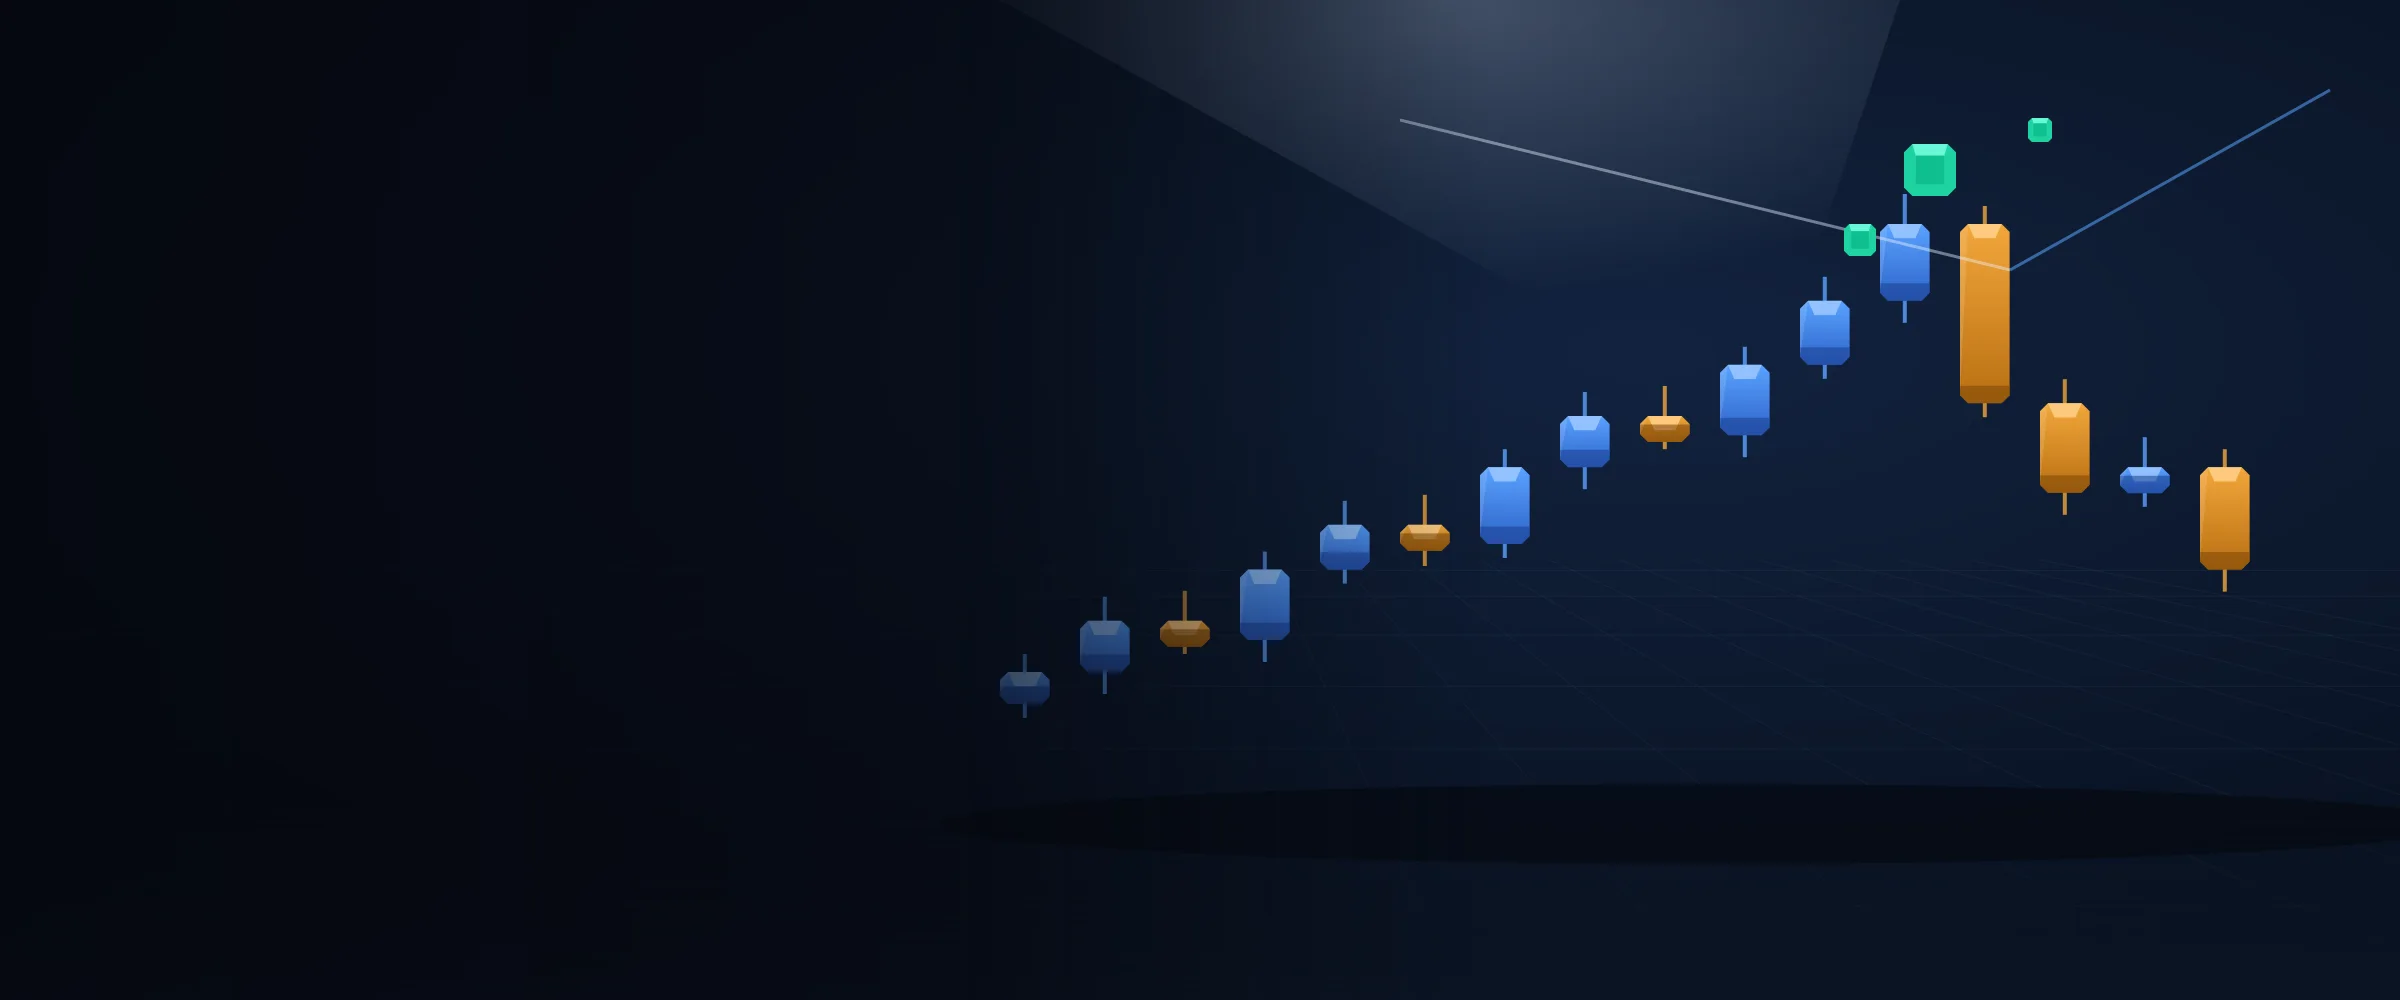
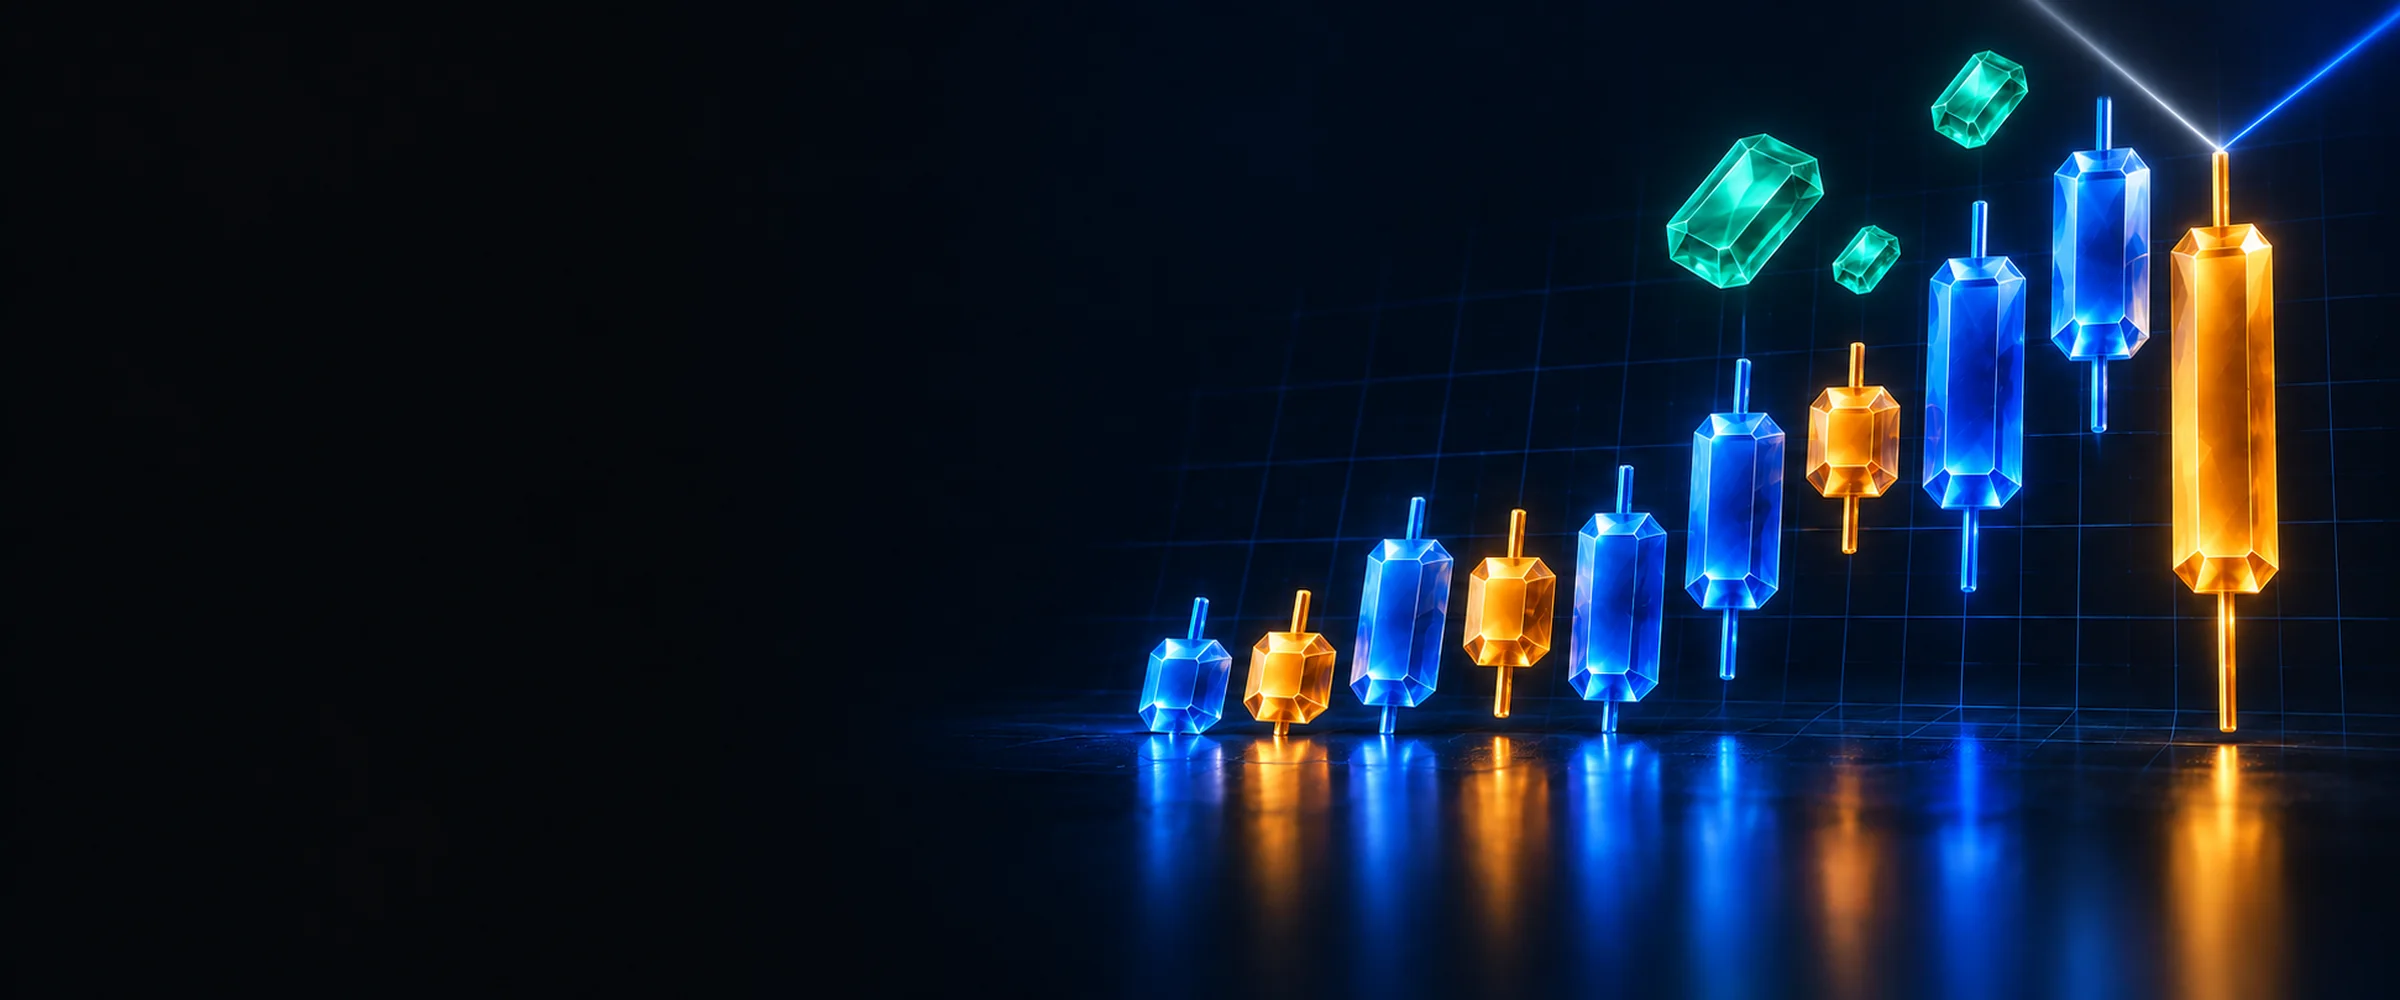
feat(app): Trading Duel key art from Astra replaces the placeholder

diff --git a/app/src/lib/art.ts b/app/src/lib/art.ts
@@ -12,7 +12,6 @@ export const art = {
   /** Wide hero art (2400x1000), left 40% dark and empty for the title. */
   blockPuzzleHero: f("block-puzzle-hero"),
   holdemHero: f("holdem-hero"),
-  /** Placeholder until Astra's art is imported (DESIGN.md). */
   tradingDuelHero: f("trading-duel-hero"),
   /** Square key art. */
   blockPuzzleTile: f("block-puzzle-tile"),

diff --git a/DESIGN.md b/DESIGN.md
@@ -117,7 +117,7 @@ Live in `app/src/components/ui` (primitives, money, inputs, icons, `ui.css`), th
 
 ## Art
 
-All game art, hero art and avatars come from one map, `app/src/lib/art.ts`. Until the final assets land (`~/Work/gemstone-labs/tesoro/art-source/ui-redesign/assets/`), they are **placeholder crops of take-1** produced by `app/scripts/crop-placeholder-art.mjs` into `app/public/art/placeholder/`; swapping to final art is one line per image. Hero art keeps its left 40% dark for the title. Art carries no UI text (titles, chips and prices are real text). The Trading Duel hero and tile are generated placeholders until Astra's art is imported with `import-final-art.mjs`.
+All game art, hero art and avatars come from one map, `app/src/lib/art.ts`. Until the final assets land (`~/Work/gemstone-labs/tesoro/art-source/ui-redesign/assets/`), they are **placeholder crops of take-1** produced by `app/scripts/crop-placeholder-art.mjs` into `app/public/art/placeholder/`; swapping to final art is one line per image. Hero art keeps its left 40% dark for the title. Art carries no UI text (titles, chips and prices are real text).
 
 ## Implementation decisions
 
@@ -164,7 +164,7 @@ Never full-body inside a page layout, and never during play: no character in the
 - Block Puzzle play: the board is the centre. A slim bar above it carries the score, the 90 s ring, Combo ×n and Lines, and Entry · Pot; the opponent status and Seed sit in one line under the tray. No Recent list during play (the last clears show on the game-over card). Practice (`/play/practice`) is the same screen with nothing staked.
 - Block Puzzle blocks are cut jewels like the key art: a table facet with four bevels lit from above (mitred borders in `color-mix` tints of the block colour, width scaled to the board by container units). Empty cells are shallow wells. The landing preview shows the held piece's colour; an invalid spot shows danger red. Gem cells stay the emerald octagon.
 - Hold'em cards: paper faces with condensed ranks; the back (`public/art/card-back.svg`) is navy with a steel lattice and the T-gem in steel — never emerald. The felt has a soft centre light; the pot is a cut plaque.
-- Trading Duel (`app/src/games/trading-duel`): direction is never green or red (green is Gemas, red is casino and danger). **Sapphire** is up / long (`--up`, `#5aa2ff`) and **amber** is down / short (`--down`, `#f2a63b`), on the chart, the position card, the Long / Short buttons and the fill log, always with the words as a second signal. Emerald appears only where Gemas move (entry, payout). The key art `trading-duel-{hero,tile}.webp` is a generated placeholder (`app/scripts/make-trading-duel-placeholder.mjs`: sapphire and amber candles cut like stones, one emerald Gema) until Astra's art from `TRADING-DUEL-ART-BRIEF.md` is imported with `import-final-art.mjs`. The asset picker (`AssetPicker`, SOL / ETH / HYPE) is neutral: the chosen asset is a pale chip.
+- Trading Duel (`app/src/games/trading-duel`): direction is never green or red (green is Gemas, red is casino and danger). **Sapphire** is up / long (`--up`, `#5aa2ff`) and **amber** is down / short (`--down`, `#f2a63b`), on the chart, the position card, the Long / Short buttons and the fill log, always with the words as a second signal. Emerald appears only where Gemas move (entry, payout). The key art `trading-duel-{hero,tile}.webp` is Astra's (`TRADING-DUEL-ART-BRIEF.md`): sapphire and amber candles cut as stones, emerald Gemas the only green. The asset picker (`AssetPicker`, SOL / ETH / HYPE) is neutral: the chosen asset is a pale chip.
 - Hold'em play: a slim header (title, blinds, hand #, entry, turn clock), the octagonal navy table with a steel rim centred and large (no green felt), the action bar (Fold, Check, Call, Raise, Raise to, slider, presets, All-in), and the Hand log in a collapsed drawer (inferred by this client from table reads; a poll can merge two actions, and it says so).
 - `/matches` (All Matches, the Account's Match history): every finished Match it played or backed, both games, newest first, 20 per page, game tabs All / Block Puzzle / Hold'em in the URL. Rows pair the result icon with its word; a backed Player's loss is "Lost · 0 Gemas" with the Backer named ("Backer … bore the loss"), as in BackingSplit. Lobby Play again and the game pages link here.
 - `/account/<key>` (a Player's Account, as anyone may see it; signed out too): only what the Player played. **Hero** (a cut frame): the avatar, the short key as the title, the full key in mono, and one line of facts (playing since, last Match, the games played); Challenge and Copy link sit in it, and under a rule one note: on your own Account that this is how others see you (with links to the Wallet and All Matches), on someone else's with no live Request that they are not asking to be backed. **Asking to be backed**: a strip with one row per live Request and the page's only emerald action, Make an Offer, which opens the Offer drawer on `/backing#<request>`. **Scoreboard**: Gemas won and lost lead in a wide panel (the net as the big figure, won and lost under it, after Fees) with the running total inside it; beside it Matches ("W of N won" with a neutral bar, the record per game, the best Block Puzzle score, draws and refunds stated as not counted) and Backings ("W of N won", the Backers' Gemas, their net and how many are ahead). The Player's Gemas and the Backers' always sit side by side: a loss under a Backing costs the Player nothing, so one figure without the other flatters. Running total: one neutral step line around a zero baseline, a step per Match in the order the Matches were opened (the id carries the opening time, not the settlement); no emerald or red series, the sign is in the text; pointer and arrow keys read each Match; hidden under two Matches with a winner. A win rate bar is neutral too: emerald is for Gemas. **Challenge** is a sheet with Game and entry that says plainly the link is the only way the Challenge reaches them. **Match history** as on `/matches`, but a row is two links side by side instead of one: the opponent leads to their Account and the chevron opens the Match (anyone can view a Match). A backed row carries the Backer's result ("Backed by … · Backer +540", "Backer … bore the loss · −1,000"). **No Matches yet**: one card replaces the scoreboard and the history, with the `him-waiting` bust flush to its edge, what the Account will show (Matches, Gemas won and lost, Backings), and on your own Account the way to start: Play now, or Open a Position when you hold no Gemas. Your own Account page opens even before the Account exists on chain. No balances, no Positions, nothing the Account did as a Backer. The key in the URL is the Account key; a wallet address is sent on to its Account. Screenshots `app/docs/screens/account-*.png` (`app/scripts/screenshot-account.mjs`).
